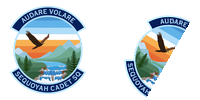
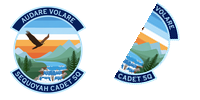
Fix Sequoyah sleeve patch crop (#37)

Changed region(s): [[0.57, 0.03, 0.96, 0.99]]

diff --git a/scripts/build_sequoyah_patch.py b/scripts/build_sequoyah_patch.py
@@ -65,8 +65,10 @@ def main() -> None:
     full_layer = Image.new("RGBA", (92, 96), (0, 0, 0, 0))
     full_layer.alpha_composite(full, ((92 - full.width) // 2, (96 - full.height) // 2))
 
-    left_half = full.crop((0, 0, (full.width + 1) // 2, full.height))
-    adjusted = left_half.rotate(-30, resample=Image.Resampling.BICUBIC, expand=True)
+    # The sleeve view removes the patch's left half, then rotates the remaining
+    # right half to follow the OCP sleeve angle.
+    right_half = full.crop((full.width // 2, 0, full.width, full.height))
+    adjusted = right_half.rotate(-30, resample=Image.Resampling.BICUBIC, expand=True)
 
     sprite = Image.new("RGBA", (200, 100), (0, 0, 0, 0))
     sprite.alpha_composite(full_layer, (2, 2))
